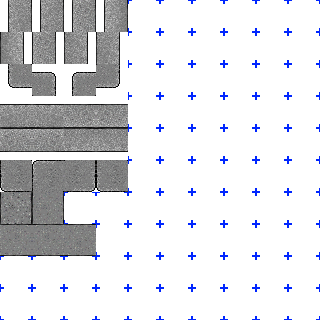
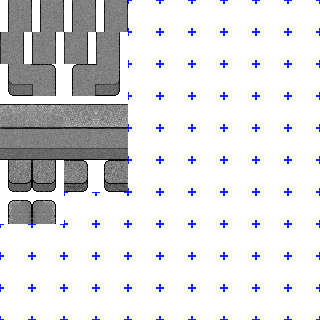
made changes to wall tiles for aesthetic improvements and added logic to generating rooms for a level

Changed region(s): [[0.0, 0.4062, 0.4062, 0.8125], [0.0, 0.0, 0.375, 0.3125]]

diff --git a/src/net/anorrah/Level.java b/src/net/anorrah/Level.java
@@ -2,27 +2,26 @@ package net.anorrah;
 
 import java.awt.Graphics;
 import java.awt.Rectangle;
-
-import org.newdawn.slick.SlickException;
-import org.newdawn.slick.tiled.TiledMap;
+import java.util.HashSet;
+import java.util.Set;
+//import org.newdawn.slick.SlickException;
+//import org.newdawn.slick.tiled.TiledMap;
+import java.util.TreeMap;
 
 public class Level 
 {
-	public int width = 21, height = 17;//match these to the correct width and height of the layout
+	public static int width = 21, height = 17, num_level = 1;//match these to the correct width and height of the layout
 	
 	public Background[][] bg = new Background[width][height];
 	public Solid[][] solid = new Solid[width][height];
 	public Item[][] item = new Item[width][height];
 	
-	public final String dpath = "res/maps/testworld";
+	private TreeMap<Integer,Set<Integer>> rooms;//contains all rooms in a single level
+	private int minRooms = 4, maxRooms = 7, delta = 5;
 	
-	public String path = dpath;
-	
-	public TiledMap map = null;
-	
-	public Level(int id)
+	public Level()
 	{	
-		for(int x = 0; x < bg.length; x++)
+		for(int x = 0; x < bg.length; x++)//generate general background layer to render
 		{
 			for(int y = 0; y < bg[0].length; y++)
 			{
@@ -58,11 +57,11 @@ public class Level
 				item[x][y] = new Item(new Rectangle(x*Tile.size, y*Tile.size, Tile.size, Tile.size),x,y,Tile.blank);
 			}
 		}
-		setedge(Tile.floorend);
-		//loadworld();
+		setedge();
+		generateRooms();
 	}
 	
-	public void setedge(int[] id)
+	private void setedge()//turns surrounding edges into black tiles and places set
 	{
 		for(int i = 0; i < width; i++)//along the top edge and bottom edge
 		{
@@ -154,58 +153,46 @@ public class Level
 		solid[width-1][height-1]= new Solid(new Rectangle((width-1)*Tile.size, (height-1)*Tile.size, Tile.size, Tile.size),width-1,height-1,Tile.corner_br);
 	}
 	
-	public void loadworld()
+	public void generateRooms()
 	{
-		int solids = map.getLayerIndex("solid");
-		
-		for(int x = 0; x < bg.length; x++)
+		rooms = new TreeMap<Integer,Set<Integer>>();
+		int num_rooms = (int)(Math.random()*maxRooms + minRooms);//populate the map full of rooms
+		for(int i = 1; i <= num_rooms; i++)
 		{
-			for(int y = 0; y < bg[0].length; y++)
-			{	
-				int tileid = map.getTileId(x,y,solids);
-				if(tileid == 122)
-				{
-					//tr
-					solid[x][y].id = Tile.corner_tr;
-				}
-				else if(tileid == 123)
-				{
-					//tl
-					solid[x][y].id = Tile.corner_tl;
-				}
-				else if(tileid == 121)
-				{
-					//bl
-					solid[x][y].id = Tile.corner_bl;
-				}
-				else if(tileid == 124)
-				{
-					//br
-					solid[x][y].id = Tile.corner_br;
-				}
-				else if(tileid == 101)
-				{
-					//left edge
-					solid[x][y].id = Tile.wall_left1;
-				}
-				else if(tileid == 111)
-				{
-					//left edge
-					solid[x][y].id = Tile.wall_right1;
-				}
-				else if(tileid == 131)
-				{
-					//top edge
-					solid[x][y].id = Tile.wall_top1;
-				}
-				else if(tileid == 141)
-				{
-					//bot edge
-					solid[x][y].id = Tile.wall_bottom1;
-				}
-			}
+			rooms.put(i, new HashSet<Integer>());
 		}
+		bridgeRooms();
 	}
+	
+	private void bridgeRooms()//assign rooms to other rooms
+	{
+		int exit_room = rooms.size();
+		int other_room = 2;
+		int r = (int)(Math.random()*(exit_room-1) + other_room);//initial value for the first room
+		
+		rooms.get(1).add(r);//add three rooms
+		other_room++;
+	}
+	
+	public void ExitReached()
+	{
+		rooms.clear();//level is cleared and next level is to load
+		num_level++;
+		
+		//change the min and max number of rooms if appropriate
+		minRooms++;
+		if(minRooms >= maxRooms)
+		{
+			minRooms = maxRooms;//cap off the min to max 
+		}
+		if(num_level % delta == 0)//every x levels change the min and max rooms
+		{
+			minRooms += 2;
+			maxRooms += minRooms;
+		}
+		generateRooms();
+	}
+	
 	public void tick(double delta)
 	{
 		

diff --git a/src/net/anorrah/Room.java b/src/net/anorrah/Room.java
@@ -1,25 +1,42 @@
 package net.anorrah;
 
 public class Room {
-	public Level lev;
-	public double levelNum = 0;
+	public int levelNum = 0;
 	private int chanceEmpty = 70;
 	private int chanceEnemy = 80;
 	private int chanceBlocked = 95;
+	
+	private boolean hasExit = false;
+	private boolean isStart = false;
+	private boolean hasPlayer = false;
 	//private int chanceTrap = 100; not needed
 	
-	public Room(int levId, double levelnumber){
-		lev = new Level(levId);
+	public Room(int levId, int levelnumber){
 		levelNum = levelnumber;
-		if (levelNum > 30)
+		if (levelNum > 30)//cap to 30
 			levelNum = 30;
+	}
+	
+	public boolean containsPlayer()
+	{
+		return hasPlayer;
+	}
+	
+	public boolean isStartRoom()
+	{
+		return isStart;
+	}
+	
+	public boolean containsExit()
+	{
+		return hasExit;
 	}
 	
 	public void makeRoom()
 	{
-		for(int x = 0; x < lev.width; x++)
+		for(int x = 0; x < Level.width; x++)
 		{
-			for(int y = 0; y < lev.height; y++)
+			for(int y = 0; y < Level.height; y++)
 			{
 				int dice = (int) (Math.random()*100)+1;
 				

diff --git a/src/net/anorrah/EntityPlayer.java b/src/net/anorrah/EntityPlayer.java
@@ -39,8 +39,6 @@ public class EntityPlayer extends Entity
 		Ry = tY*32;
 		super.x = Rx;
 		super.y = Ry;
-		System.out.println("Render x and y:\t" + Rx + "\t" + Ry);
-		System.out.println("Tile x and y:\t" + tX + "\t" + tY);
 		moveSpeed = 2;
 		health = 100;
 		max_Xdistance = gk.level.width;
@@ -53,7 +51,7 @@ public class EntityPlayer extends Entity
 	
 	public boolean canMove(int i, int j)
 	{
-		System.out.println("\nCurrently at:\t" + tX + " " + tY);
+		//System.out.println("\nCurrently at:\t" + tX + " " + tY);
 		if(i < 0 || j < 0 || i >= max_Xdistance || j >= max_Ydistance)
 		{
 			return false;

diff --git a/src/net/anorrah/Tile.java b/src/net/anorrah/Tile.java
@@ -30,10 +30,10 @@ public class Tile
 	public static int[] wall_right3 = {2,1};
 	public static int[] wall_right4 = {3,1};
 	
-	public static int[] wall_top1 = {0,3};
-	public static int[] wall_top2 = {1,3};
-	public static int[] wall_top3 = {2,3};
-	public static int[] wall_top4 = {3,3};
+	public static int[] wall_top1 = {0,4};
+	public static int[] wall_top2 = {1,4};
+	public static int[] wall_top3 = {2,4};
+	public static int[] wall_top4 = {3,4};
 	
 	public static int[] wall_bottom1 = {0,4};
 	public static int[] wall_bottom2 = {1,4};

diff --git a/src/net/anorrah/enemyEntities.java b/src/net/anorrah/enemyEntities.java
@@ -12,7 +12,7 @@ public abstract class enemyEntities extends Entity {
 	
 	public enemyEntities(Core gk, double x, double y, int width, int height)
 	{
-		super(Tile.playertile,x,y,width,height);
+		super(Tile.playertile_DOWN,x,y,width,height);
 		tX = 10;
 		tY = 6;
 		max_Xdistance = gk.level.width;

diff --git a/src/net/anorrah/Core.java b/src/net/anorrah/Core.java
@@ -76,7 +76,7 @@ public class Core extends Applet implements Runnable
 		requestFocus();
 		
 		//Class declarations here
-		level = new Level(1);
+		level = new Level();
 		new Tile();
 		
 		offset_MAX_X = level.width - VIEWPORT_SIZE.width;
